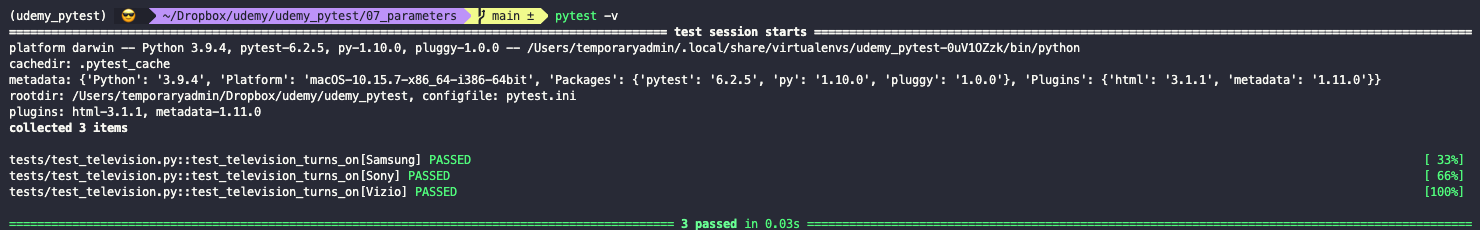
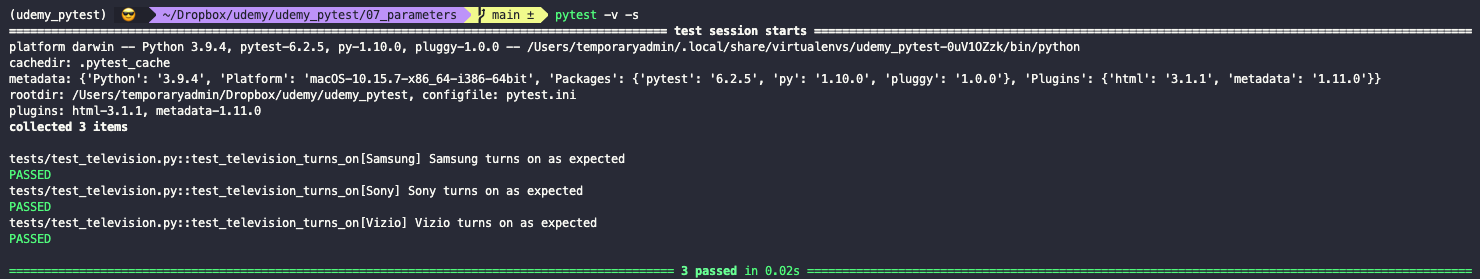
test parameters

diff --git a/07_parameters/tests/conftest.py b/07_parameters/tests/conftest.py
@@ -1,0 +1,24 @@
+from pytest import fixture
+from selenium import webdriver
+import json
+
+data_path = "tests/test_data.json"
+
+def load_test_data(path):
+  with open(path) as data_file:
+    data = json.load(data_file)
+    return data
+
+
+@fixture(params = [webdriver.Chrome, webdriver.Firefox, webdriver.Edge])
+def browser(request):
+  driver = request.param
+  drvr = driver()
+  yield drvr
+  drvr.quit()
+
+
+@fixture(params = load_test_data(data_path))
+def tv_brand(request):
+  data = request.param
+  return data

diff --git a/07_parameters/tests/test_television.py b/07_parameters/tests/test_television.py
@@ -1,12 +1,9 @@
 from pytest import mark
 
-@mark.parametrize(
-  "tv_brand",
-  [
-    ("Samsung"),
-    ("Sony"),
-    ("Vizio")
-  ]
-)
+
 def test_television_turns_on(tv_brand):
   print(f"{tv_brand} turns on as expected")
+
+
+def test_browser_can_navigate_to_training_ground(browser):
+  browser.get("http://techstepacademy.com/training-ground")

diff --git a/07_parameters/README.md b/07_parameters/README.md
@@ -1,4 +1,4 @@
-# Testing parametrization
+# Test parametrization
 
 Test parametrization allows us to run the same test but with different inputs, without having to copy-paste the test code. To pass parameters to our tests we use the `@mark.parametrize` decorator. The parameters of the test code itself are declared in the function and then used in the function body (as usual). We also need to pass the parameter names as strings to the decorator, followed by the parameter values, using some Python iterable (for example, a list of tuples). `pytest` will run the test as many times as there are values to iterate over.
 
@@ -15,6 +15,38 @@ def test_television_turns_on(tv_brand):
   print(f"{tv_brand} turns on as expected")
 ```
 
-![parameters]("img/01_parameters.png)
+![parameters](img/01_parameters.png)
 
-One useful case is when we need to use different parameters on the fly (that is, when calling the test suite on the CLI).
+One problem with this way of coding the tests is that if the list of values to iterate over now changes, then we need to change it in every test. We can use a `fixture` to solve this. For example, if we want our browser automated tests to be run for three different drivers (Chrome, Firefox and Edge), then our browser fixture can include all of them as parameters.
+
+``` python
+@fixture(params = [webdriver.Chrome, webdriver.Firefox, webdriver.Edge])
+def browser(request):
+  driver = request.param
+  drvr = driver()
+  yield drvr
+  drvr.quit()
+```
+
+Alternatively, we can have a `JSON` file with all our test data. In our TV brands example, our `JSON` file would be an array of three elements (the TV brands we want to test for). In `conftest.py` we will load the data and create a fixture that uses that data.
+
+``` python
+def load_test_data(path):
+  with open(path) as data_file:
+    data = json.load(data_file)
+    return data
+
+@fixture(params = load_test_data(path))
+def tv_brand(request):
+  data = request.param
+  return data
+```
+
+Because our data loading is now a fixture, we don't need to pass parameters to the test itself anymore.
+
+``` python
+def test_television_turns_on(tv_brand):
+  print(f"{tv_brand} turns on as expected")
+```
+
+![json parameters](img/02_json_parameters.png)
